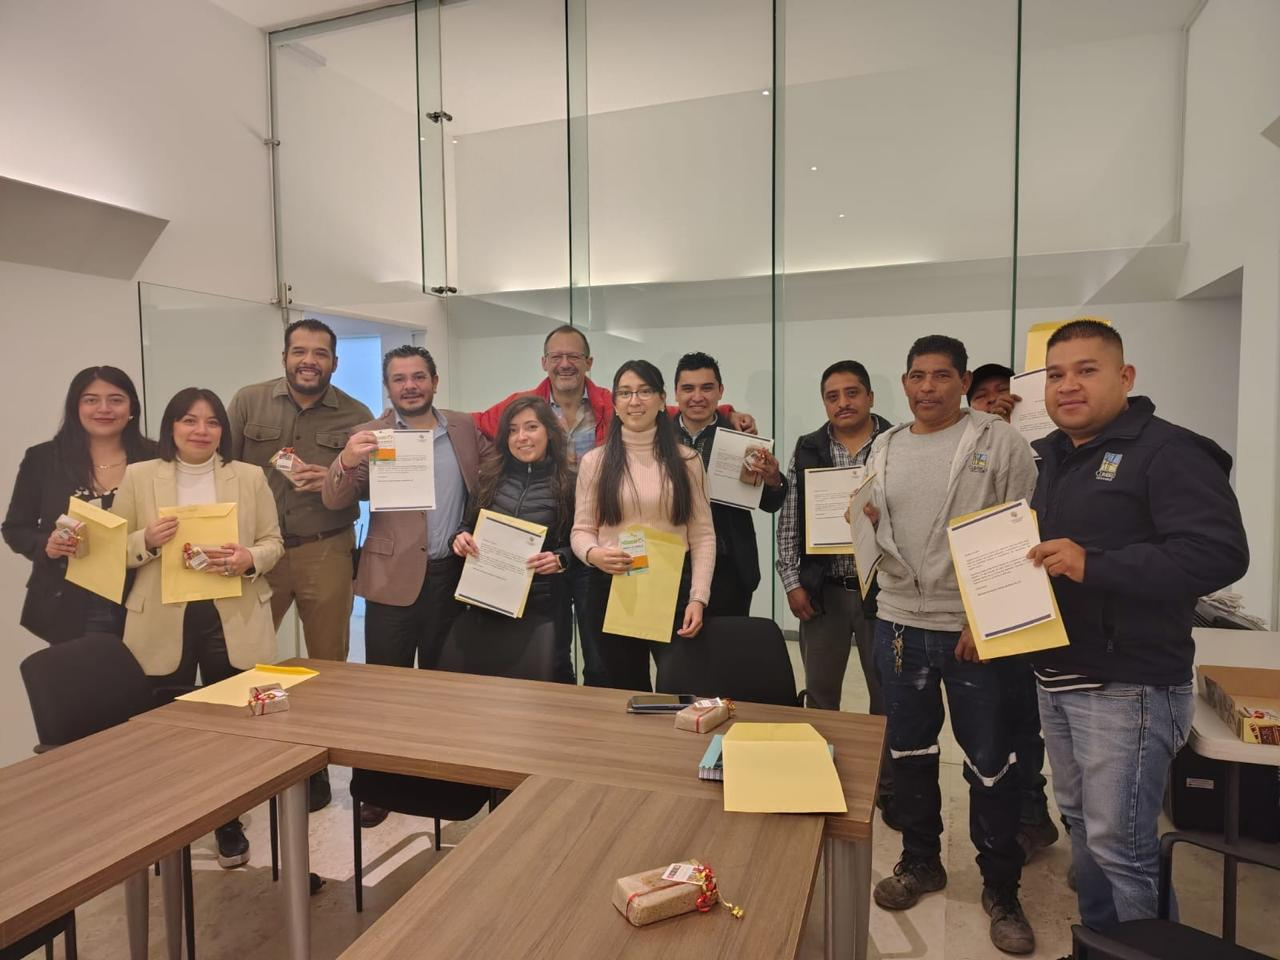
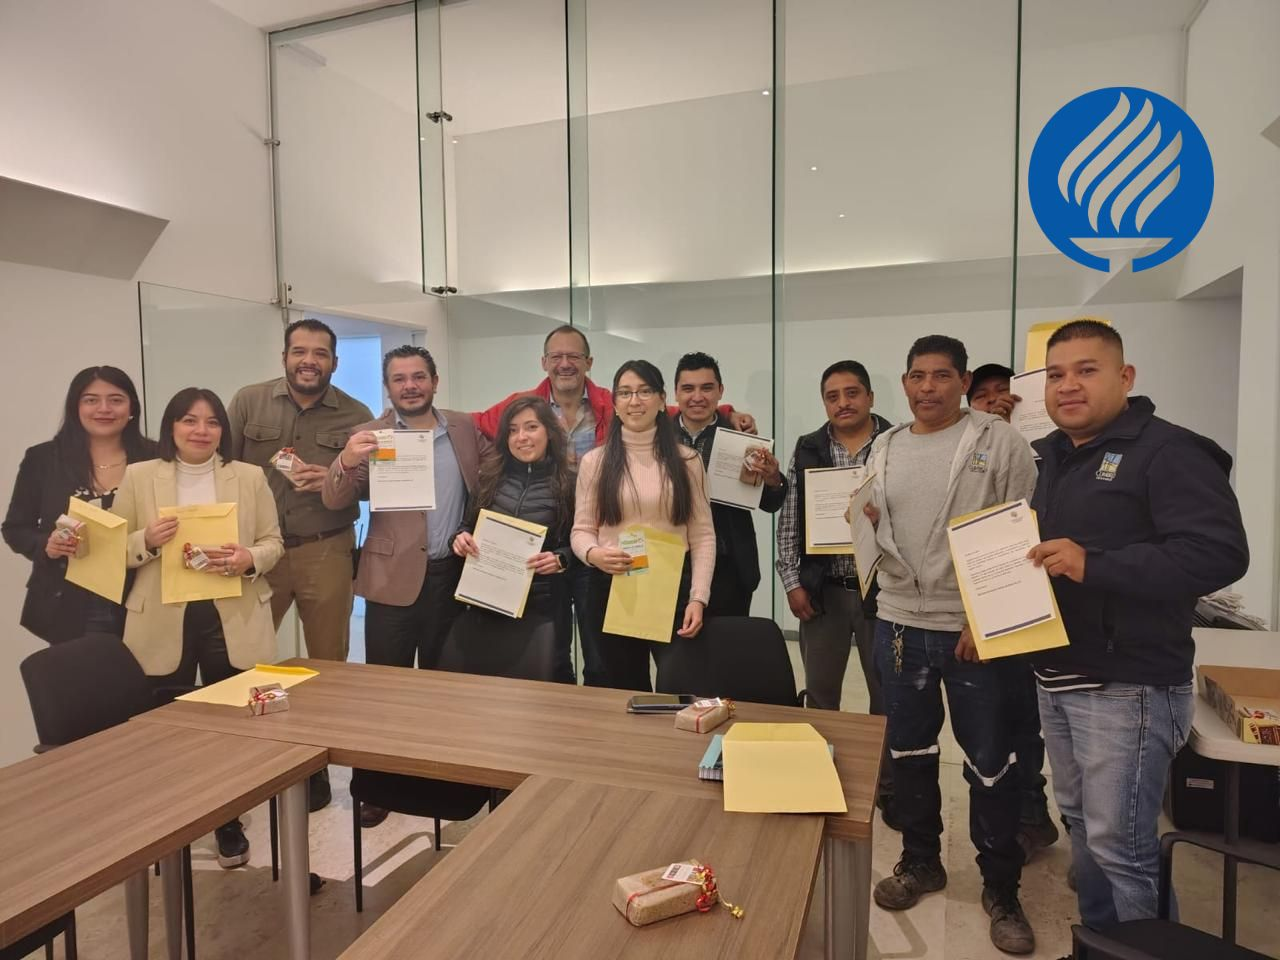
Ligeras correcciones

Changed region(s): [[0.7812, 0.0938, 0.9688, 0.2812]]

diff --git a/nextapp/src/components/home/Hero.tsx b/nextapp/src/components/home/Hero.tsx
@@ -5,86 +5,137 @@ import Link from "next/link";
 import Image from "next/image";
 
 type CTAButton = {
-  text: string,
-  href: string,
-  className?: string,
-  primary?: boolean,
+  text: string;
+  href: string;
+  className?: string;
+  primary?: boolean;
 };
 
 interface HeroProps {
   title: ReactNode;
-  subtitle?: ReactNode; // ahora es opcional
+  subtitle?: ReactNode;
   ctaButtons: CTAButton[];
 }
 
 export default function Hero({ title, subtitle, ctaButtons }: HeroProps) {
-  // Imágenes locales en la carpeta public
+  // Imágenes locales en /public
   const backgroundImages = [
     "/images/hero-carousel/CanchaSanMateo.jpg",
     "/images/hero-carousel/ClasesTec.jpg",
-    "/images/hero-carousel/EntregaDiploma.jpg",
+    "/images/hero-carousel/EntregaDiploma.jpg", // <- problemática 1
     "/images/hero-carousel/EntregaMochilas.jpg",
-    "/images/hero-carousel/EntregaMochilas2.jpg",
+    "/images/hero-carousel/EntregaMochilas2.jpg", // <- problemática 2
     "/images/hero-carousel/Reforestacion.jpg",
   ];
 
-  const [currentImageIndex, setCurrentImageIndex] = useState(0);
+  /**
+   * Puntos focales por breakpoint (x%, y%)
+   * default: <768px, md: ≥768px, lg: ≥1024px
+   * Solo toqué EntregaDiploma (idx 2) y EntregaMochilas2 (idx 4).
+   */
+  const focalPoints = {
+    default: [
+      { x: "50%", y: "50%" }, // CanchaSanMateo
+      { x: "50%", y: "50%" }, // ClasesTec
+      { x: "72%", y: "35%" }, // EntregaDiploma (móvil: sube para no cortar cabeza)
+      { x: "50%", y: "50%" }, // EntregaMochilas
+      { x: "62%", y: "34%" }, // EntregaMochilas2 (móvil: un poco arriba)
+      { x: "50%", y: "50%" }, // Reforestacion
+    ],
+    md: [
+      { x: "50%", y: "50%" },
+      { x: "50%", y: "50%" },
+      { x: "72%", y: "40%" }, // tablet
+      { x: "50%", y: "50%" },
+      { x: "62%", y: "40%" }, // tablet
+      { x: "50%", y: "50%" },
+    ],
+    lg: [
+      { x: "50%", y: "50%" },
+      { x: "50%", y: "50%" },
+      { x: "72%", y: "42%" }, // desktop ancho
+      { x: "50%", y: "50%" },
+      { x: "62%", y: "20%" }, // desktop ancho
+      { x: "50%", y: "50%" },
+    ],
+  } as const;
 
+  // Detectar breakpoint en cliente
+  const [bp, setBp] = useState<"default" | "md" | "lg">("default");
   useEffect(() => {
-    const interval = setInterval(() => {
-      setCurrentImageIndex(
-        (prevIndex) => (prevIndex + 1) % backgroundImages.length
-      );
-    }, 5000); // Cambia cada 5 segundos
+    const computeBp = () => {
+      const w = window.innerWidth;
+      if (w >= 1024) return "lg";
+      if (w >= 768) return "md";
+      return "default";
+    };
+    setBp(computeBp());
+    const onResize = () => setBp(computeBp());
+    window.addEventListener("resize", onResize);
+    return () => window.removeEventListener("resize", onResize);
+  }, []);
 
+  // Carrusel
+  const [currentImageIndex, setCurrentImageIndex] = useState(0);
+  useEffect(() => {
+    const interval = setInterval(
+      () =>
+        setCurrentImageIndex((prev) => (prev + 1) % backgroundImages.length),
+      5000
+    );
     return () => clearInterval(interval);
   }, [backgroundImages.length]);
 
   return (
     <div className="relative bg-[#5D84C4] min-h-[70vh] md:min-h-[75vh] lg:min-h-[80vh] py-12 md:py-20 overflow-hidden">
-      {/* Background image carousel */}
+      {/* Fondo con carrusel */}
       <div className="absolute inset-0">
-        {backgroundImages.map((imageUrl, index) => (
-          <div
-            key={index}
-            className={`absolute inset-0 transition-opacity duration-1000 ${
-              index === currentImageIndex ? "opacity-100" : "opacity-0"
-            }`}
-          >
-            <Image
-              src={imageUrl}
-              alt={`Imagen de fondo ${index + 1}`}
-              fill
-              className="object-cover"
-              sizes="100vw"
-              priority={index === 0}
-            />
-          </div>
-        ))}
-        {/* Overlay sutil para mantener legibilidad del texto */}
-        <div className="absolute inset-0 bg-black opacity-20"></div>
+        {backgroundImages.map((imageUrl, index) => {
+          const fp = focalPoints[bp][index] ??
+            focalPoints.default[index] ?? { x: "50%", y: "50%" };
+
+          return (
+            <div
+              key={index}
+              className={`absolute inset-0 transition-opacity duration-1000 ${
+                index === currentImageIndex ? "opacity-100" : "opacity-0"
+              }`}
+            >
+              <Image
+                src={imageUrl}
+                alt={`Imagen de fondo ${index + 1}`}
+                fill
+                className="object-cover"
+                style={{ objectPosition: `${fp.x} ${fp.y}` }}
+                sizes="100vw"
+                priority={index === 0}
+              />
+            </div>
+          );
+        })}
+        {/* Overlay para legibilidad */}
+        <div className="absolute inset-0 bg-black/20"></div>
       </div>
 
-      {/* Background design elements */}
-      <div className="absolute inset-0 overflow-hidden">
+      {/* Elementos decorativos */}
+      <div className="absolute inset-0 overflow-hidden pointer-events-none">
         <div className="absolute -right-40 -top-40 w-80 h-80 bg-[#B3A369] opacity-10 rounded-full"></div>
         <div className="absolute -left-20 bottom-10 w-60 h-60 bg-white opacity-5 rounded-full"></div>
       </div>
 
+      {/* Contenido */}
       <div className="container mx-auto px-4 relative z-10">
         <div className="max-w-3xl text-left">
           <h1 className="text-4xl md:text-5xl font-bold mb-6 text-white drop-shadow-lg">
             {title}
           </h1>
 
-          {/* Subtítulo solo si existe */}
           {subtitle && (
             <p className="text-2xl md:text-3xl font-semibold leading-relaxed mb-10 text-gray-100 drop-shadow-md">
               {subtitle}
             </p>
           )}
 
-          {/* Contenedor de botones mejorado para móvil */}
           <div className="flex flex-col sm:flex-row gap-4 items-start sm:items-center">
             {ctaButtons.map((button, index) => {
               const base =
@@ -94,9 +145,7 @@ export default function Hero({ title, subtitle, ctaButtons }: HeroProps) {
                 ? "bg-[#CDA52A] hover:bg-[#B3A369] text-white"
                 : "bg-white hover:bg-gray-100 text-gray-800 border border-gray-300";
 
-              const classes = `${base} ${
-                button.className ? button.className : fallback
-              }`;
+              const classes = `${base} ${button.className ?? fallback}`;
 
               return (
                 <Link key={index} href={button.href} className={classes}>
